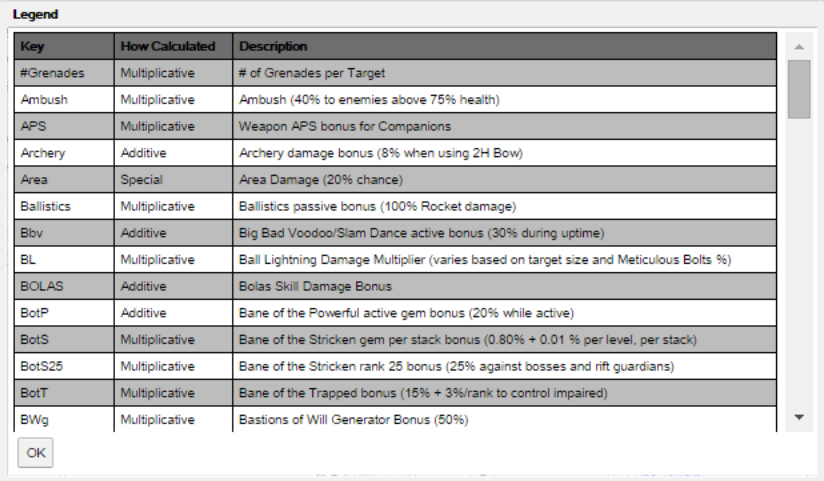
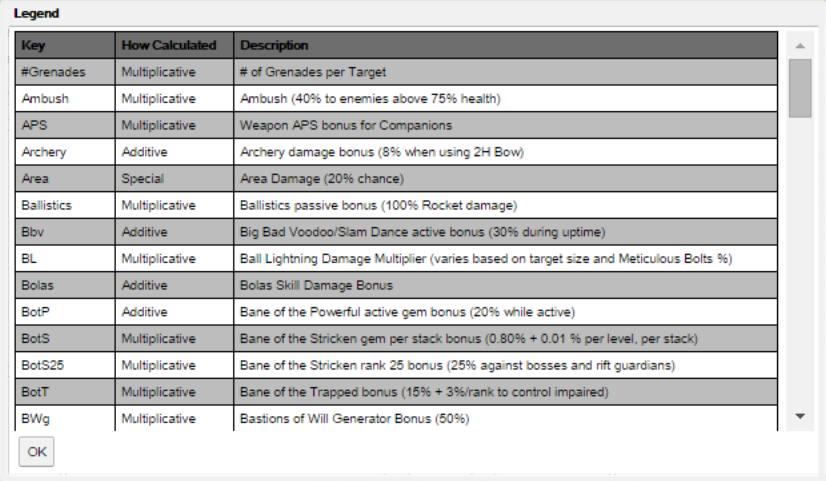
Fixed legend text and added description in help

Changed region(s): [[0.0, 0.0, 0.9709, 0.9979]]

diff --git a/war/help.html b/war/help.html
@@ -497,7 +497,22 @@ This panel displays computed values for the current hero:
 <h2 id="legend">Legend</h2>
 <img src="images/help/legend.png"></img>
 <p/>
-This dialog displays descriptions for abbreviations used in the damage calculator, particularly those in the <a href="#log">Damage Log</a>.
+This dialog displays descriptions for abbreviations for Damage Modifiers used in the damage calculator, particularly those in the <a href="#log">Damage Log</a>.
+<p/>
+Each row in the Legend table is a Damage Modifier. For each Damage Modifier, three columns of data are provided:
+<ul>
+<li><b>Key</b>: The abbreviation used for the Damage Modifier in the <a href="#log">Damage Log</a> Notes and Calculations columns</li>
+<li><b>How Calculated</b>: How the damage is included in the calculations (see below)</li>
+<li><b>Description</b>: A short description of the damage modifier</li>
+</ul>
+<p/>
+Damage Modifiers are combined, depending on the value of the "How Calculated" column. The possible values are:
+<ul>
+<li><b>Multiplicative</b>: The Damage Modifier is independently multiplicative. The value of this modifiers is multiplied against all other modifiers. For example, if the Modifier's value is X%, then the damage is multiplied by (1 + X/100).</li> 
+<li><b>Additive</b>: The Damage Modifier is grouped with other Additive modifiers. The total value of all Additive modifiers is multiplied against all other modifiers. For example, if the three Additive Modifier's value are X%, Y% and Z%, then the damage is multiplied by (1 + X/100 + Y/100 + Z/100).</li> 
+<li><b>Elemental Additive</b>: The Damage Modifier is grouped with other Elemental Additive modifiers and Elemental Damage Bonus. The total value of all Additive modifiers is multiplied against all other modifiers. For example, if the Elemental Additive Modifier's value is X% and the Elemetal Damage Bonus is Y%, then the damage is multiplied by (1 + X/100 + Y/100).</li> 
+<li><b>Special</b>: This category is for Damage Modifiers that do not fit into one of the three categories above. For example, Crit Hit Chance and Crit Hit Damage.</li> 
+</ul>
 <hr/>
 <h2 id="bp">Break Points</h2>
 <img src="images/help/bp.png"></img>

diff --git a/src/com/dawg6/web/dhcalc/shared/calculator/DamageMultiplier.java b/src/com/dawg6/web/dhcalc/shared/calculator/DamageMultiplier.java
@@ -372,7 +372,7 @@ public enum DamageMultiplier {
 				public Double getValue(SimulationState state) {
 					return state.getData().getEsDamage();
 				}
-			}), BOLAS("BOLAS", DamageAccumulator.Additive,
+			}), BOLAS("Bolas", DamageAccumulator.Additive,
 			"Bolas Skill Damage Bonus", new Test<SimulationState, Double>() {
 				@Override
 				public Double getValue(SimulationState state) {
@@ -385,7 +385,7 @@ public enum DamageMultiplier {
 				public Double getValue(SimulationState state) {
 					return state.getData().getEfDamage();
 				}
-			}), GRENADE("GRENADE", DamageAccumulator.Additive,
+			}), GRENADE("Grenade", DamageAccumulator.Additive,
 			"Grenade Skill Damage Bonus", new Test<SimulationState, Double>() {
 				@Override
 				public Double getValue(SimulationState state) {

diff --git a/src/com/dawg6/web/dhcalc/shared/calculator/Version.java b/src/com/dawg6/web/dhcalc/shared/calculator/Version.java
@@ -28,8 +28,8 @@ public class Version  implements Serializable {
 
 	public static final String PREFIX = "Version:";
 	
-	public static String VERSION = "2.3-151013.4";
-	public static String VERSION_DATE = "10/13/15";
+	public static String VERSION = "2.3-151014.1";
+	public static String VERSION_DATE = "10/14/15";
 	
 	public String version;
 	
